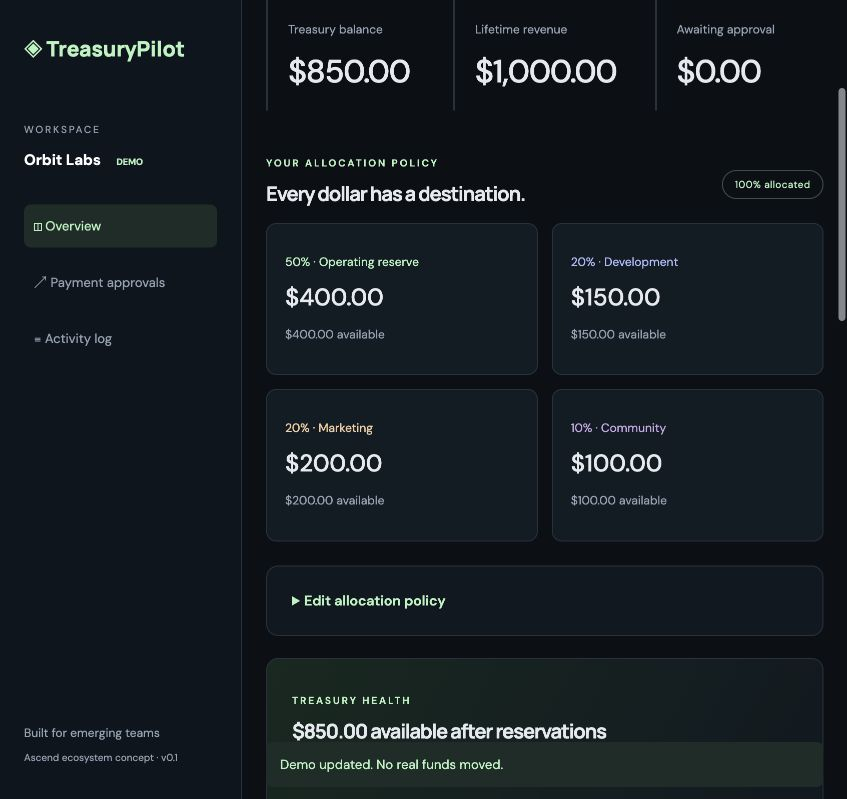
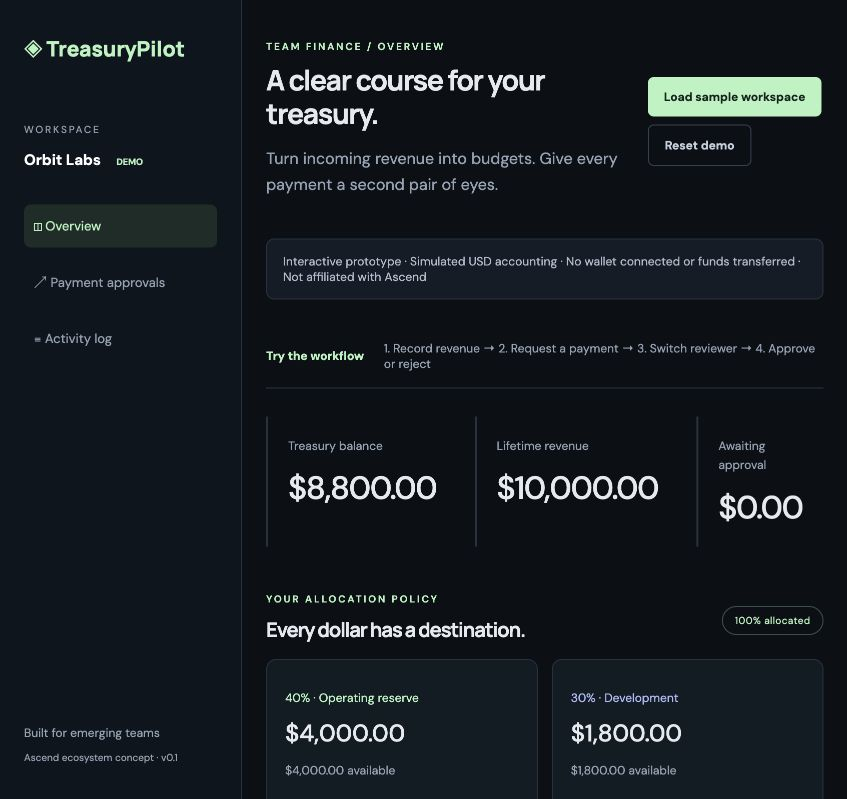
Improve reviewer demo, request lifecycle and saved-state validation

diff --git a/index.html b/index.html
@@ -1,13 +1,14 @@
 <!doctype html>
 <html lang="en"><head><meta charset="utf-8"><meta name="viewport" content="width=device-width,initial-scale=1"><title>TreasuryPilot — Team treasury workspace</title><link rel="stylesheet" href="./style.css"></head>
 <body><aside><a class="brand" href="./">◈ TreasuryPilot</a><div class="workspace">WORKSPACE<strong>Orbit Labs <span>DEMO</span></strong></div><nav><a href="#overview">◫ Overview</a><a href="#payments">↗ Payment approvals</a><a href="#activity">≡ Activity log</a></nav><div class="aside-bottom">Built for emerging teams<br><small>Ascend ecosystem concept · v0.1</small></div></aside>
-<main><header><div><p class="eyebrow">TEAM FINANCE / OVERVIEW</p><h1>A clear course for your treasury.</h1><p class="muted">Turn incoming revenue into budgets. Give every payment a second pair of eyes.</p></div><button id="reset" class="secondary">Reset demo</button></header>
+<main><header><div><p class="eyebrow">TEAM FINANCE / OVERVIEW</p><h1>A clear course for your treasury.</h1><p class="muted">Turn incoming revenue into budgets. Give every payment a second pair of eyes.</p></div><div class="header-actions"><button id="sample">Load sample workspace</button><button id="reset" class="secondary">Reset demo</button></div></header>
 <div class="notice">Interactive prototype · Simulated USD accounting · No wallet connected or funds transferred · Not affiliated with Ascend</div>
+<div class="guide"><strong>Try the workflow</strong><span>1. Record revenue → 2. Request a payment → 3. Switch reviewer → 4. Approve or reject</span></div>
 <section id="overview" class="stats"></section>
 <div class="section-head"><div><p class="eyebrow">YOUR ALLOCATION POLICY</p><h2>Every dollar has a destination.</h2></div><span class="pill">100% allocated</span></div><section id="budgets" class="budgets"></section>
 <details class="panel"><summary>Edit allocation policy</summary><p class="muted small">Changes apply to future revenue. Existing balances and payment reservations stay in their current budgets.</p><form id="policy"><div id="policy-inputs" class="form-grid"></div><p id="policy-total" class="small" aria-live="polite"></p><button>Save policy</button></form></details>
 <section id="insights" class="panel"></section>
 <div class="grid"><section class="panel"><p class="eyebrow">01 / REVENUE</p><h2>Record incoming revenue</h2><p class="muted">Apply your current allocation policy to a simulated deposit.</p><form id="deposit"><label for="revenue">Revenue amount · demo USD</label><div class="input-row"><input id="revenue" name="amount" inputmode="decimal" value="1000" required><button>Allocate revenue ↗</button></div></form></section>
-<section class="panel"><p class="eyebrow">02 / SPENDING</p><h2>Request a team payment</h2><form id="request"><div class="form-grid"><div><label for="bucket">Budget</label><select id="bucket" name="bucket"><option value="development">Development</option><option value="marketing">Marketing</option><option value="community">Community</option><option value="reserve">Operating reserve</option></select></div><div><label for="amount">Amount · demo USD</label><input id="amount" name="amount" inputmode="decimal" placeholder="150.00" required></div></div><label for="recipient">Recipient wallet</label><input id="recipient" name="recipient" placeholder="0x…" required><label for="purpose">Purpose</label><input id="purpose" name="purpose" placeholder="Frontend milestone 1" maxlength="200" required><p class="muted small">Requester: Kivanc · Reviewer: Alex (simulated roles)</p><button>Submit for approval ↗</button></form></section></div>
-<section id="payments" class="panel"><div class="section-head"><div><p class="eyebrow">03 / REVIEW QUEUE</p><h2>Payment approvals</h2></div><span class="pill">Two-person review</span></div><p class="muted small">Buttons simulate Alex’s review. Roles are not authenticated; approved payments do not send funds.</p><div class="toolbar"><label for="status-filter">Show payments</label><select id="status-filter"><option value="all">All statuses</option><option value="pending">Pending</option><option value="approved">Approved</option><option value="rejected">Rejected</option></select><button type="button" id="export" class="secondary">Export payments CSV</button></div><div id="payment-list"></div></section>
-<section id="activity" class="panel"><p class="eyebrow">04 / TRACEABILITY</p><h2>Activity log</h2><p class="muted small">Local demo history; editable browser storage, not an immutable ledger.</p><ol id="events"></ol></section><div id="feedback" role="status" aria-live="polite"></div><footer>Non-custodial treasury tooling is the roadmap. This release demonstrates the workflow only.</footer></main><script type="module" src="./src/app.js"></script></body></html>
+<section class="panel"><p class="eyebrow">02 / SPENDING</p><h2>Request a team payment</h2><form id="request"><div class="form-grid"><div><label for="bucket">Budget</label><select id="bucket" name="bucket"><option value="development">Development</option><option value="marketing">Marketing</option><option value="community">Community</option><option value="reserve">Operating reserve</option></select></div><div><label for="amount">Amount · demo USD</label><input id="amount" name="amount" inputmode="decimal" placeholder="150.00" required></div></div><label for="recipient">Recipient wallet</label><input id="recipient" name="recipient" placeholder="0x…" required><label for="purpose">Purpose</label><input id="purpose" name="purpose" placeholder="Frontend milestone 1" maxlength="200" required><p class="muted small">Requests are created as Kivanc. Switch to Alex below to simulate a separate review.</p><button>Submit for approval ↗</button></form></section></div>
+<section id="payments" class="panel"><div class="section-head"><div><p class="eyebrow">03 / REVIEW QUEUE</p><h2>Payment approvals</h2></div><span class="pill">Two-person review</span></div><p class="muted small">Switch between fictional team roles to explore separation of duties. Roles are not authenticated; approved payments do not send funds.</p><div class="role-control"><label for="actor">Simulated team member</label><select id="actor"><option value="Kivanc">Kivanc · Requester</option><option value="Alex">Alex · Reviewer</option></select></div><div class="toolbar"><label for="status-filter">Show payments</label><select id="status-filter"><option value="all">All statuses</option><option value="pending">Pending</option><option value="approved">Approved</option><option value="rejected">Rejected</option><option value="cancelled">Cancelled</option></select><button type="button" id="export" class="secondary">Export payments CSV</button></div><div id="payment-list"></div></section>
+<section id="activity" class="panel"><p class="eyebrow">04 / TRACEABILITY</p><h2>Activity log</h2><p class="muted small">Local demo history; editable browser storage, not an immutable ledger.</p><ol id="events"></ol></section><div id="feedback" role="status" aria-live="polite"></div><dialog id="replace-dialog"><h2 id="replace-title">Replace demo workspace?</h2><p class="muted">This replaces your local demo records. Export payments first if you want to keep a report.</p><div class="header-actions"><button id="replace-confirm">Replace workspace</button><button id="replace-cancel" class="secondary">Keep current workspace</button></div></dialog><footer>Non-custodial treasury tooling is the roadmap. This release demonstrates the workflow only.</footer></main><script type="module" src="./src/app.js"></script></body></html>

diff --git a/src/app.js b/src/app.js
@@ -1,7 +1,8 @@
-import { initialState, parseAmount, deposit, requestPayment, resolvePayment, updatePolicy, paymentsCSV } from './treasury.js';
+import { initialState, parseAmount, deposit, requestPayment, resolvePayment, updatePolicy, paymentsCSV, cancelPayment, validateState, exampleState } from './treasury.js';
 const key = 'treasurypilot-demo-v1';
 let state = initialState();
-try { const saved = JSON.parse(localStorage.getItem(key)); if (saved && saved.buckets?.length === 4 && Array.isArray(saved.payments) && Array.isArray(saved.events) && Number.isSafeInteger(saved.income)) state = saved; } catch {}
+let storageWarning = '';
+try { const raw = localStorage.getItem(key); if (raw) { const saved = JSON.parse(raw); if (validateState(saved)) state = saved; else storageWarning = 'Saved demo data failed validation. Started a clean workspace.'; } } catch { storageWarning = 'Saved demo data could not be read. Started a clean workspace.'; }
 const money = n => new Intl.NumberFormat('en-US', { style: 'currency', currency: 'USD' }).format(n / 100);
 const el = (tag, text, cls) => { const node = document.createElement(tag); if (text !== undefined) node.textContent = text; if (cls) node.className = cls; return node; };
 function render() {
@@ -17,13 +18,32 @@ function render() {
   const list = document.querySelector('#payment-list'); list.replaceChildren();
   const visible = state.payments.filter(p => document.querySelector('#status-filter').value === 'all' || p.status === document.querySelector('#status-filter').value);
   if (!visible.length) list.append(el('p', 'No payments match this view. Create a request or choose another status.', 'empty'));
-  visible.forEach(p => { const row = el('div', undefined, 'payment'); const detail = el('div'); detail.append(el('strong', p.purpose), el('p', `${p.recipient} · ${p.bucketId} · ${p.createdAt ? new Date(p.createdAt).toLocaleDateString() : 'Earlier demo request'}`, 'muted small')); row.append(detail, el('strong', money(p.amount)), el('span', p.status, 'pill')); if (p.status === 'pending') for (const [text, approve] of [['Approve', true], ['Reject', false]]) { const button = el('button', text, approve ? '' : 'secondary'); button.onclick = () => perform(() => resolvePayment(state, p.id, 'Alex', approve)); row.append(button); } list.append(row); });
+  visible.forEach(p => {
+    const row = el('div', undefined, 'payment'); const detail = el('div');
+    detail.append(el('strong', `#${p.id} · ${p.purpose}`), el('p', `${p.recipient} · ${p.bucketId}`, 'muted small'), el('p', `Requested by ${p.requester}${p.reviewer ? ` · Reviewed by ${p.reviewer}` : ''}`, 'muted small'));
+    row.append(detail, el('strong', money(p.amount)), el('span', p.status, `pill status-${p.status}`));
+    if (p.status === 'pending') {
+      const actor = document.querySelector('#actor').value;
+      if (actor === p.requester) {
+        const cancel = el('button', 'Cancel request', 'secondary'); cancel.onclick = () => perform(() => cancelPayment(state, p.id, actor)); row.append(cancel, el('span', 'Another member must review', 'small muted'));
+      } else for (const [text, approve] of [['Approve', true], ['Reject', false]]) {
+        const button = el('button', text, approve ? '' : 'secondary'); button.onclick = () => perform(() => resolvePayment(state, p.id, actor, approve)); row.append(button);
+      }
+    }
+    list.append(row);
+  });
   document.querySelector('#events').replaceChildren(...state.events.map(event => el('li', event)));
 }
-function perform(action) { try { action(); render(); try { localStorage.setItem(key, JSON.stringify(state)); } catch {} document.querySelector('#feedback').textContent = 'Demo updated. No real funds moved.'; } catch (error) { document.querySelector('#feedback').textContent = error.message; } }
+function perform(action) { try { action(); render(); let message = 'Demo updated. No real funds moved.'; try { localStorage.setItem(key, JSON.stringify(state)); } catch { message += ' Browser storage is unavailable; changes will not survive reload.'; } document.querySelector('#feedback').textContent = message; } catch (error) { document.querySelector('#feedback').textContent = error.message; } }
 document.querySelector('#deposit').onsubmit = event => { event.preventDefault(); perform(() => deposit(state, parseAmount(new FormData(event.target).get('amount')))); };
-document.querySelector('#request').onsubmit = event => { event.preventDefault(); const data = new FormData(event.target); perform(() => requestPayment(state, { bucketId: data.get('bucket'), amount: parseAmount(data.get('amount')), recipient: data.get('recipient').trim(), purpose: data.get('purpose'), requester: 'Kivanc' })); };
-document.querySelector('#reset').onclick = () => perform(() => { state = initialState(); });
+document.querySelector('#request').onsubmit = event => { event.preventDefault(); const data = new FormData(event.target); perform(() => { requestPayment(state, { bucketId: data.get('bucket'), amount: parseAmount(data.get('amount')), recipient: data.get('recipient').trim(), purpose: data.get('purpose'), requester: 'Kivanc' }); event.target.reset(); }); };
+let replacement = initialState;
+function replaceWorkspace(factory, title) { replacement = factory; document.querySelector('#replace-title').textContent = title; document.querySelector('#replace-dialog').showModal(); }
+document.querySelector('#reset').onclick = () => replaceWorkspace(initialState, 'Reset your demo workspace?');
+document.querySelector('#sample').onclick = () => replaceWorkspace(exampleState, 'Load fictional sample data?');
+document.querySelector('#replace-cancel').onclick = () => document.querySelector('#replace-dialog').close();
+document.querySelector('#replace-confirm').onclick = () => { perform(() => { state = replacement(); }); document.querySelector('#replace-dialog').close(); };
+document.querySelector('#actor').onchange = render;
 function policyTotal() {
   const total = [...document.querySelectorAll('#policy-inputs input')].reduce((sum, input) => sum + Number(input.value), 0);
   const node = document.querySelector('#policy-total'); node.textContent = `Total: ${total}% · ${total === 100 ? 'Ready to save' : 'Must equal 100%'}`;
@@ -36,3 +56,5 @@ document.querySelector('#export').onclick = () => {
   document.querySelector('#feedback').textContent = 'Exported all payment statuses. Demo data only.';
 };
 render();
+
+if (storageWarning) document.querySelector('#feedback').textContent = storageWarning;

diff --git a/style.css b/style.css
@@ -1,3 +1,4 @@
 @import url('https://fonts.googleapis.com/css2?family=DM+Sans:wght@400;500;600;700&family=Manrope:wght@400;500;600;700;800&display=swap');
 :root{font-family:'DM Sans',sans-serif;color:#e5eaf0;background:#0b1016;font-synthesis:none;--muted:#93a2b4;--border:#26313d;--mint:#b4f4c0}*{box-sizing:border-box}body{margin:0}aside{position:fixed;width:242px;height:100vh;border-right:1px solid var(--border);padding:34px 24px;background:#0e151d}.brand{color:var(--mint);font-family:Manrope,sans-serif;font-size:21px;font-weight:800;text-decoration:none;white-space:nowrap}.workspace{margin-top:60px;font-size:10px;letter-spacing:2px;color:var(--muted)}.workspace strong{display:block;margin-top:14px;color:#fff;font-size:15px;letter-spacing:0}.workspace span{font-size:9px;color:var(--mint);margin-left:12px}nav{display:grid;gap:12px;margin-top:35px}nav a{padding:13px 10px;text-decoration:none;color:var(--muted);font-size:13px}nav a:first-child{background:#1b2c27;color:var(--mint);border-radius:7px}.aside-bottom{position:absolute;bottom:30px;font-size:12px;line-height:2;color:var(--muted)}main{margin-left:242px;padding:42px 48px;max-width:1600px}header,.section-head{display:flex;align-items:center;justify-content:space-between;gap:20px}h1,h2{font-family:Manrope,sans-serif;letter-spacing:-1px}h1{font-size:34px;margin:10px 0 14px;line-height:1.2}h2{font-size:20px;margin:8px 0 16px}.eyebrow{font-size:10px;letter-spacing:2px;color:var(--mint);font-weight:600}.muted{color:var(--muted);line-height:1.6}.small{font-size:12px}.notice{margin:25px 0;color:#b0bcce;font-size:12px;padding:14px 16px;border:1px solid var(--border);border-radius:8px;background:#131c26}.stats{display:grid;grid-template-columns:repeat(3,1fr);gap:18px;margin-bottom:36px}.stat{padding:8px 20px 18px;border-left:2px solid var(--border)}.stat p{font-size:12px}.stat strong{font-size:32px;font-weight:500;letter-spacing:-1px}.budgets{display:grid;grid-template-columns:repeat(4,1fr);gap:14px;margin-bottom:24px}.budget{border:1px solid var(--border);border-radius:10px;padding:18px;background:#111b24}.budget>p:first-child{font-size:12px;color:var(--mint)}.budget strong{font-size:24px;font-weight:500}.color-1>p:first-child{color:#aebcfc}.color-2>p:first-child{color:#f4cea2}.color-3>p:first-child{color:#cba9ea}.grid{display:grid;grid-template-columns:1fr 1fr;gap:22px}.panel{background:#101820;border:1px solid var(--border);border-radius:12px;padding:25px;margin-bottom:22px}.pill{font-size:10px;letter-spacing:.4px;border:1px solid #3b5047;border-radius:30px;padding:7px 12px;color:var(--mint);white-space:nowrap}label{display:block;font-size:12px;margin:16px 0 8px;color:#c5d0de}input,select{width:100%;background:#0b121a;border:1px solid #344151;color:#fff;border-radius:6px;padding:12px;font:inherit;font-size:13px}input:focus,select:focus,button:focus-visible{outline:2px solid var(--mint);outline-offset:3px}button{cursor:pointer;background:var(--mint);color:#12231b;border:0;border-radius:6px;padding:12px 16px;font:inherit;font-size:12px;font-weight:700;white-space:nowrap}.secondary{background:transparent;color:#c3cfdd;border:1px solid #344151}.input-row{display:flex;gap:10px}.form-grid{display:grid;grid-template-columns:1fr 1fr;gap:12px}.payment{display:flex;align-items:center;gap:15px;padding:18px 0;border-top:1px solid var(--border);font-size:13px}.payment>div{flex:1;min-width:0;overflow-wrap:anywhere}.empty{padding:25px 0;color:var(--muted);font-size:13px}ol{padding-left:20px;color:var(--muted);font-size:12px;line-height:2.4}#feedback{position:sticky;bottom:12px;background:#1b2c27;color:var(--mint);border-radius:7px;font-size:13px}#feedback:not(:empty){padding:14px}footer{font-size:11px;color:var(--muted);padding-top:12px}@media(max-width:1100px){main{padding:30px 24px}.budgets{grid-template-columns:repeat(2,1fr)}.grid{grid-template-columns:1fr}h1{font-size:28px}.payment{flex-wrap:wrap}}@media(max-width:700px){aside{position:static;width:auto;height:auto;padding:20px}.workspace,nav,.aside-bottom{display:none}main{margin:0;padding:24px 16px}header{align-items:flex-start}.stats{gap:8px}.stat{padding:6px}.stat strong{font-size:21px}.stat p{font-size:10px}.panel{padding:18px}.input-row{flex-direction:column}.section-head{align-items:flex-start}.payment>div{flex-basis:100%}h1{font-size:25px}}
 summary{cursor:pointer;color:var(--mint);font-size:14px;font-weight:600}.toolbar{display:flex;gap:14px;align-items:center;margin:18px 0}.toolbar label{margin:0;white-space:nowrap}.toolbar select{width:auto;min-width:140px}.toolbar button{margin-left:auto}.payment>div p{font-size:11px}#insights{background:linear-gradient(120deg,#152820,#101820)}@media(max-width:700px){.toolbar{flex-wrap:wrap}.toolbar button{margin-left:0}.toolbar select{flex:1}}
+.header-actions{display:flex;gap:8px;flex-wrap:wrap}.guide{display:flex;gap:20px;align-items:center;margin-bottom:28px;padding:16px 0;border-bottom:1px solid var(--border);font-size:12px;color:var(--muted)}.guide strong{color:var(--mint);white-space:nowrap}.role-control{display:flex;gap:16px;align-items:center;border-bottom:1px solid var(--border);padding-bottom:18px}.role-control label{margin:0}.role-control select{width:auto}.status-rejected,.status-cancelled{color:#e6b5ae;border-color:#6a4844}.status-pending{color:#f4cea2;border-color:#665038}dialog{color:#e5eaf0;background:#111b24;border:1px solid var(--border);border-radius:14px;padding:28px;max-width:520px}dialog::backdrop{background:#000a}@media(max-width:700px){.guide{display:block;line-height:1.8}.guide strong{display:block}.role-control{flex-wrap:wrap}.role-control select{width:100%}header{flex-wrap:wrap}}

diff --git a/src/treasury.js b/src/treasury.js
@@ -29,11 +29,11 @@ export function requestPayment(state, { bucketId, amount, recipient, purpose, re
   const bucket = state.buckets.find(b => b.id === bucketId);
   assert(bucket, 'Unknown budget.');
   assert(Number.isSafeInteger(amount) && amount > 0, 'Invalid payment amount.');
-  assert(/^0x[a-fA-F0-9]{40}$/.test(recipient), 'Enter a valid 0x wallet address.');
-  assert(purpose.trim() && requester, 'Purpose and requester are required.');
+  assert(/^0x[a-fA-F0-9]{40}$/.test(recipient) && !/^0x0{40}$/i.test(recipient), 'Enter a valid 0x wallet address.');
+  assert(typeof purpose === 'string' && purpose.trim() && purpose.length <= 200 && typeof requester === 'string' && requester.trim(), 'Purpose and requester are required.');
   const reserved = state.payments.filter(p => p.bucketId === bucketId && p.status === 'pending').reduce((sum, p) => sum + p.amount, 0);
   assert(amount <= bucket.balance - reserved, 'Insufficient unreserved budget.');
-  const payment = { id: state.payments.length + 1, bucketId, amount, recipient, purpose: purpose.trim(), requester, createdAt: new Date().toISOString(), status: 'pending' };
+  const payment = { id: Math.max(0, ...state.payments.map(p => p.id)) + 1, bucketId, amount, recipient, purpose: purpose.trim(), requester, createdAt: new Date().toISOString(), status: 'pending' };
   state.payments.unshift(payment);
   state.events.unshift(`Payment #${payment.id} requested by ${requester}; budget reserved.`);
   return payment;
@@ -62,4 +62,48 @@ export function paymentsCSV(state) {
   // Neutralize spreadsheet formula prefixes in user-provided cells.
   const cell = value => '"' + String(value ?? '').replace(/^[=+@\-\t\r]/, "'$&").replaceAll('"', '""') + '"';
   return [['ID', 'Created at', 'Budget', 'Amount (demo USD)', 'Recipient', 'Purpose', 'Requester', 'Status', 'Reviewer'], ...state.payments.map(p => [p.id, p.createdAt, p.bucketId, (p.amount / 100).toFixed(2), p.recipient, p.purpose, p.requester, p.status, p.reviewer])].map(row => row.map(cell).join(',')).join('\r\n');
+}
+
+export function cancelPayment(state, id, requester) {
+  const payment = state.payments.find(p => p.id === id);
+  assert(payment && payment.status === 'pending', 'Only pending requests can be cancelled.');
+  assert(payment.requester === requester, 'Only the requester can cancel this payment.');
+  payment.status = 'cancelled';
+  state.events.unshift(`Payment #${id} cancelled by ${requester}; reservation released.`);
+}
+
+export function validateState(state) {
+  try {
+    const templates = initialState().buckets;
+    assert(state && Number.isSafeInteger(state.income) && state.income >= 0, 'Invalid income.');
+    assert(Array.isArray(state.buckets) && state.buckets.length === templates.length, 'Invalid budgets.');
+    state.buckets.forEach((b, i) => assert(b.id === templates[i].id && b.name === templates[i].name && Number.isSafeInteger(b.balance) && b.balance >= 0 && Number.isInteger(b.percent) && b.percent >= 0 && b.percent <= 100, 'Invalid budget.'));
+    assert(state.buckets.reduce((sum, b) => sum + b.percent, 0) === 100, 'Invalid policy.');
+    assert(Array.isArray(state.payments) && Array.isArray(state.events) && state.events.every(e => typeof e === 'string'), 'Invalid records.');
+    const ids = new Set();
+    let spent = 0;
+    state.payments.forEach(p => {
+      assert(Number.isSafeInteger(p.id) && p.id > 0 && !ids.has(p.id), 'Invalid payment ID.'); ids.add(p.id);
+      assert(templates.some(b => b.id === p.bucketId) && Number.isSafeInteger(p.amount) && p.amount > 0, 'Invalid payment.');
+      assert(typeof p.recipient === 'string' && /^0x[a-fA-F0-9]{40}$/.test(p.recipient) && !/^0x0{40}$/i.test(p.recipient), 'Invalid recipient.');
+      assert(typeof p.purpose === 'string' && p.purpose.trim().length > 0 && p.purpose.length <= 200 && typeof p.requester === 'string' && p.requester.trim(), 'Invalid payment metadata.');
+      assert(['pending', 'approved', 'rejected', 'cancelled'].includes(p.status), 'Invalid status.');
+      if (p.status === 'approved' || p.status === 'rejected') assert(typeof p.reviewer === 'string' && p.reviewer.trim() && p.reviewer !== p.requester, 'Invalid review.');
+      if (p.status === 'approved') { spent += p.amount; assert(Number.isSafeInteger(spent), 'Invalid spending.'); }
+    });
+    const balances = state.buckets.reduce((sum, b) => sum + b.balance, 0);
+    assert(Number.isSafeInteger(balances) && balances + spent === state.income, 'Accounting mismatch.');
+    state.buckets.forEach(b => assert(state.payments.filter(p => p.bucketId === b.id && p.status === 'pending').reduce((sum, p) => sum + p.amount, 0) <= b.balance, 'Over-reserved budget.'));
+    return true;
+  } catch { return false; }
+}
+
+export function exampleState() {
+  const state = initialState();
+  deposit(state, 1000000);
+  const first = requestPayment(state, { bucketId: 'development', amount: 120000, recipient: '0x1111111111111111111111111111111111111111', purpose: 'Frontend milestone delivery', requester: 'Kivanc' });
+  resolvePayment(state, first.id, 'Alex', true);
+  requestPayment(state, { bucketId: 'marketing', amount: 45000, recipient: '0x2222222222222222222222222222222222222222', purpose: 'Launch explainer video', requester: 'Kivanc' });
+  state.events.unshift('Loaded fictional sample workspace. These entries are not real usage or revenue.');
+  return state;
 }

diff --git a/tests/treasury.test.js b/tests/treasury.test.js
@@ -34,3 +34,27 @@ test('CSV escapes user content and neutralizes formula prefixes', async () => {
   assert.ok(csv.includes('"\'=SUM(1,2) ""demo"""'));
   assert.ok(csv.includes('"1.00"'));
 });
+
+test('cancellation releases funds and cannot be performed by another member', async () => {
+  const { cancelPayment, validateState } = await import('../src/treasury.js');
+  const state = initialState(); deposit(state, 100000);
+  const input = { bucketId: 'development', amount: 30000, recipient: wallet, purpose: 'Build', requester: 'Kivanc' };
+  const p = requestPayment(state, input);
+  assert.throws(() => cancelPayment(state, p.id, 'Alex'));
+  cancelPayment(state, p.id, 'Kivanc');
+  assert.throws(() => resolvePayment(state, p.id, 'Alex', true));
+  assert.doesNotThrow(() => requestPayment(state, input));
+  assert.equal(validateState(state), true);
+});
+test('saved state validation rejects inconsistent balances, malformed records and duplicate IDs', async () => {
+  const { exampleState, validateState } = await import('../src/treasury.js');
+  const state = exampleState(); assert.equal(validateState(state), true);
+  for (const corrupt of [s => s.buckets[0].balance++, s => s.payments.push(s.payments[0]), s => s.payments[0].amount = -1, s => s.payments[0].recipient = null, s => s.buckets[0].percent = 200, s => s.events.push({}), s => s.payments[0].amount = 9999999]) {
+    const copy = structuredClone(state); corrupt(copy); assert.equal(validateState(copy), false);
+  }
+});
+test('zero-address recipients are rejected without reserving any budget', () => {
+  const state = initialState(); deposit(state, 100000);
+  assert.throws(() => requestPayment(state, { bucketId: 'development', amount: 100, recipient: '0x' + '0'.repeat(40), purpose: 'Build', requester: 'Kivanc' }));
+  assert.equal(state.payments.length, 0);
+});

diff --git a/README.md b/README.md
@@ -23,24 +23,31 @@ Open http://127.0.0.1:4173. Run accounting and approval checks with `npm test`.
 1. Allocate 1,000 demo USD. Reserve receives 400, development 300, marketing 200, and community 100.
 2. Request 150 from Development to `0x1111111111111111111111111111111111111111` for “Frontend milestone 1”.
 3. Observe the pending reservation: Development has 300 total and 150 available.
-4. Approve as simulated reviewer Alex. Development now has 150. No funds are sent.
+4. Switch the simulated team member to Alex and approve. Development now has 150. No funds are sent.
 5. Request another payment and reject it to release its reservation. Inspect the activity log.
 
-Demo state is stored in localStorage. Reset demo clears it. Do not enter sensitive information.
+Use **Load sample workspace** for a fictional scenario with approved and pending payments. Switch between Kivanc and Alex to explore requesting, cancellation, and separate review.
+
+Demo state is stored in localStorage. Reset demo clears it after confirmation. Do not enter sensitive information.
 
 ## What is implemented
 
 - Editable allocation policy (40/30/20/10 by default) for future revenue, with integer-cent accounting and largest-remainder allocation.
 - Budget checks that account for pending reservations.
-- Payment requests, different-reviewer checks, approval, and rejection.
+- Payment requests, explicit simulated role switching, requester cancellation, approval, and rejection.
 - Treasury health summary showing available funds after pending reservations.
 - Payment status filters and CSV export with spreadsheet formula-prefix protection.
-- Responsive dashboard and browser-local activity history.
+- Guided example workspace, responsive dashboard, and browser-local activity history.
+- Saved-state validation with accounting and reservation consistency checks.
 - Dependency-free Node test suite and an optional CI workflow example (`ci-workflow.example.yml`).
 
 ## Limits and trust model
 
 Roles are simulated in one browser, not authenticated. Browser storage can be edited and is not an immutable audit trail. Wallet address validation checks format only. Accounting uses two decimal places for simulated USD; production token accounting requires token-specific integer precision. Deposits are manual simulations and do not verify revenue origin. Approval updates local accounting only. The UI uses Google Fonts with system-font fallbacks.
+
+## Technical review
+
+See [architecture and trust boundaries](docs/ARCHITECTURE.md). Ten automated tests cover the core accounting, policy, lifecycle, storage validation, and export behavior. These are not an independent security audit.
 
 ## Planned next steps
 

diff --git a/docs/ARCHITECTURE.md b/docs/ARCHITECTURE.md
@@ -1,0 +1,36 @@
+# Architecture and review notes
+
+## Current system
+
+Browser UI → pure treasury functions → browser-local JSON storage.
+
+The Node server serves a fixed list of static files. It has no database, wallet connection, signing keys, or payment endpoint. The same HTML, CSS, and ES modules can be hosted by a static host.
+
+## Accounting model
+
+Amounts are safe integer cents of simulated USD. Each deposit is allocated by whole percentage weights summing to 100. Largest-remainder allocation preserves the entire deposit, with stable budget-order tie breaking. Existing balances do not move when a policy changes.
+
+For each budget:
+
+`available = balance - sum(pending requests)`
+
+At workspace level:
+
+`income = sum(budget balances) + sum(approved payment amounts)`
+
+An approval reduces the relevant balance. Rejection or requester cancellation releases the reservation without reducing the balance. Finalized requests cannot be reviewed again. Approval is a simulated accounting action, not a transaction confirmation.
+
+## Trust boundaries
+
+- Role selection demonstrates two-person workflow only. Anyone with the page can switch roles.
+- Stored data is checked for schema, duplicate IDs, valid statuses, budget reservations, and aggregate accounting consistency on load. This detects malformed data, not malicious rewriting of consistent history.
+- The browser renders user input as text, not HTML. CSV fields are quoted and leading formula prefixes are neutralized.
+- Wallet validation checks hexadecimal format and rejects the zero address. It does not verify checksum, ownership, network, or whether a recipient can receive a token.
+- Example workspace entries are fictional and must never be represented as product traction.
+- No production contract, independent audit, revenue integration, or platform affiliation exists.
+
+## Next architecture milestone
+
+Authenticated users and explicit workspace memberships → authorized backend mutation API → durable transaction storage → reviewed testnet vault adapter. Authorization must be enforced server-side and ultimately by the relevant signing/contract rules. Browser identity labels must never be used to authorize real transfers.
+
+Before real funds: document custody and admin powers, choose exact token/network configurations, model token-transfer failure cases and replay protection, and obtain independent security review.
